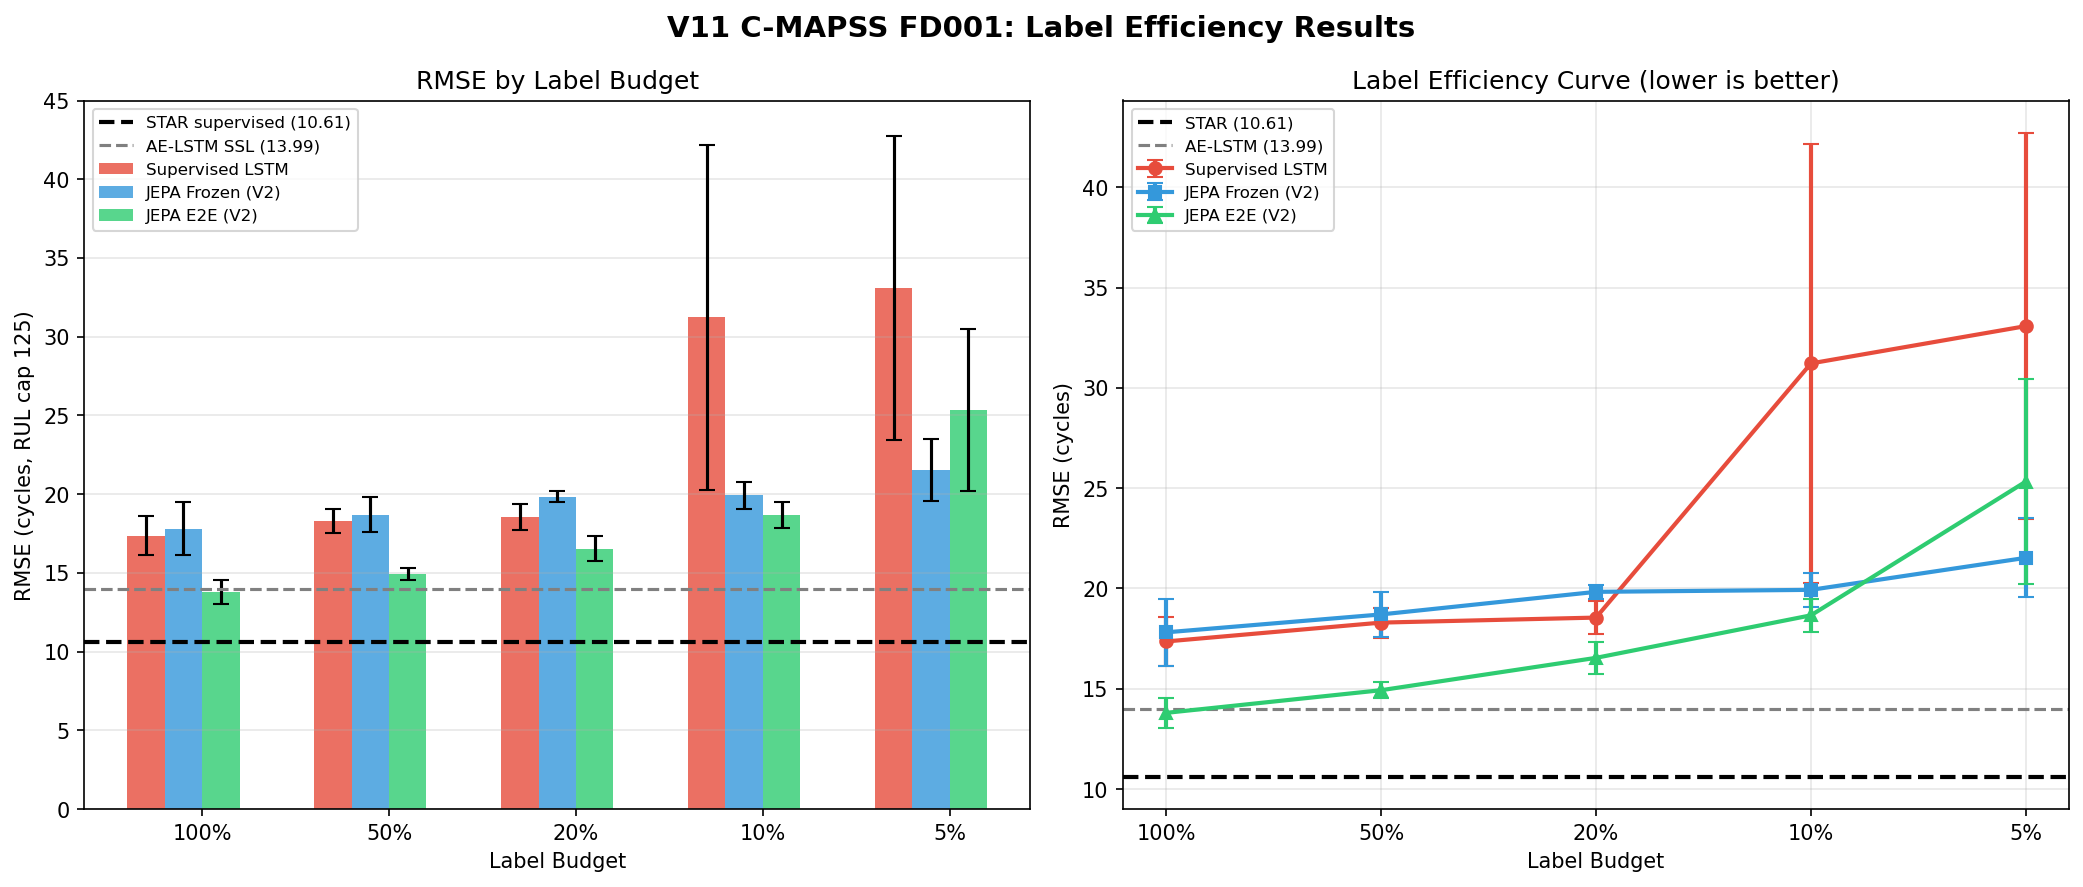
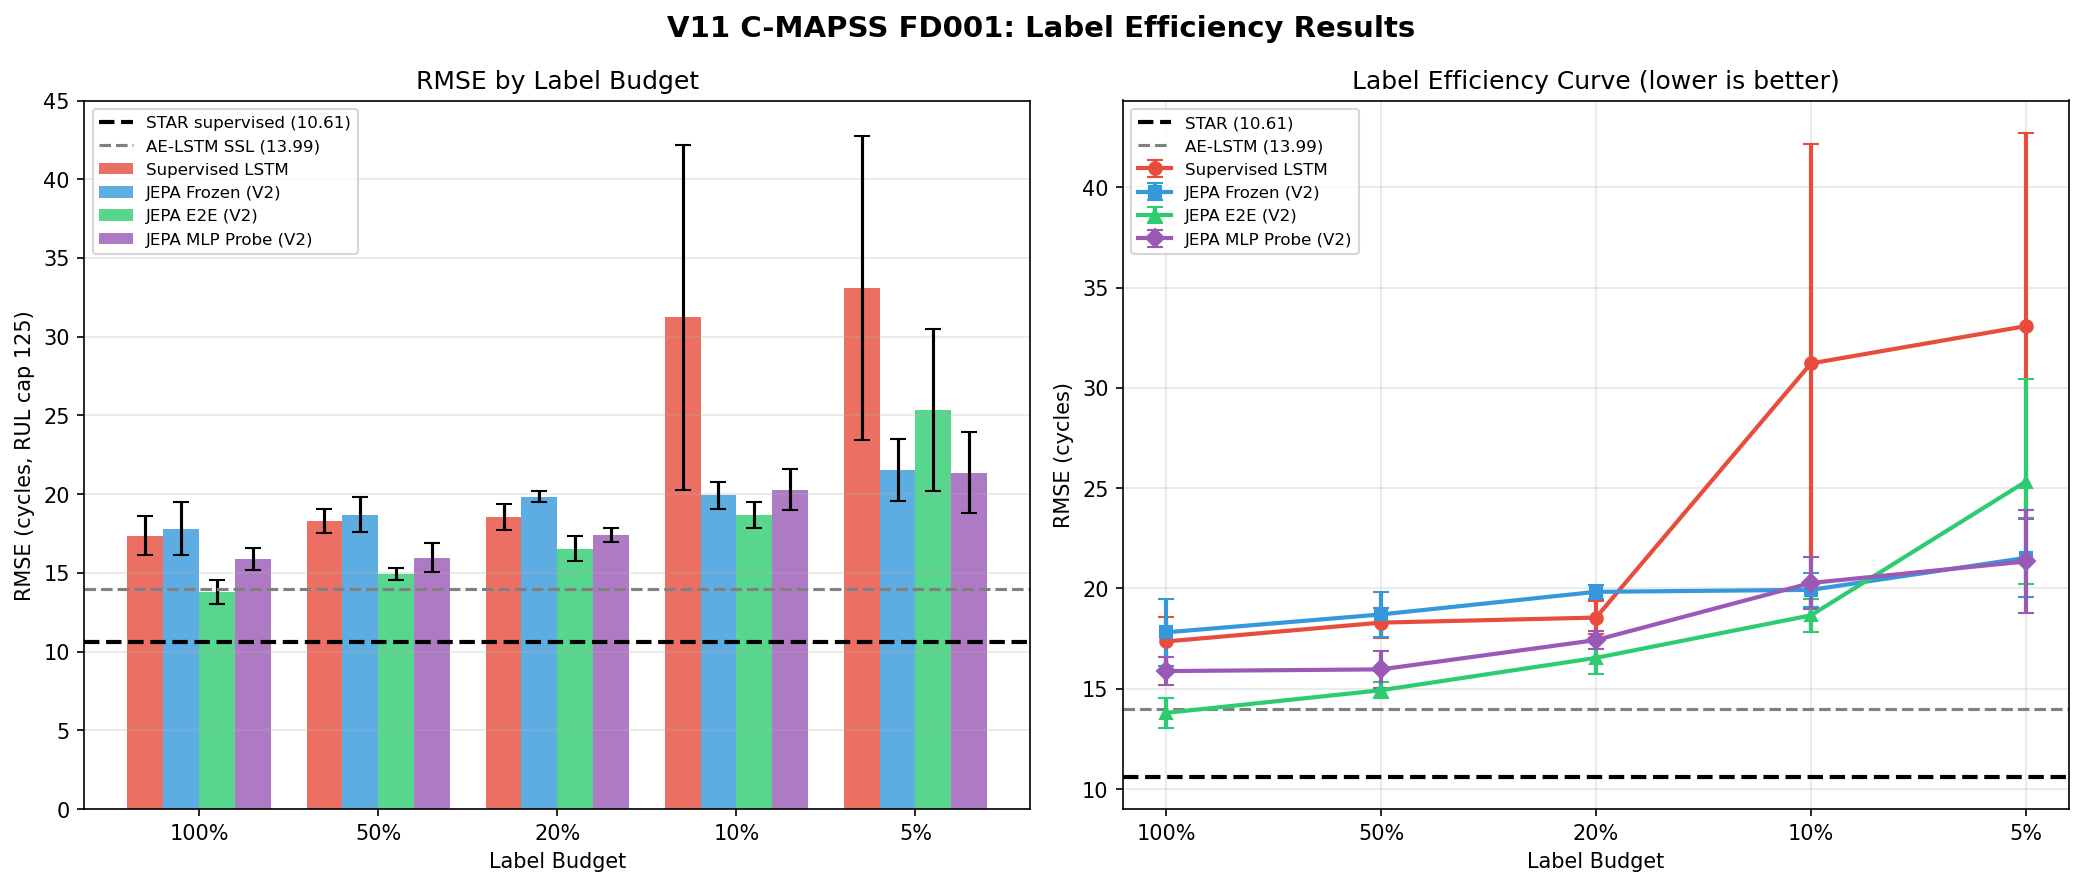
V11: Exp 4/5/6 complete + FD003 in-domain + FD004 pretraining started
Key results:
- Exp 4 (extended fine-tuning 200ep): NO improvement - E2E 14.82 vs standard 13.80 (worse)
  100ep patience=20 is sufficient; longer schedules overfit validation set
- Exp 5 (MLP probe 100%): 16.55 vs linear 17.81 (+1.26 RMSE, 7% relative improvement)
  MLP probe confirms frozen representations have nonlinear structure
- Exp 6 (MLP probe all budgets): MLP beats linear at 100%/50%/20%; ties at 10%; similar at 5%
  MLP probe bridges frozen/E2E gap substantially at high labels
- FD003 in-domain (Exp 8): E2E@100%=15.37 beats supervised LSTM (17.36) on mixed-fault subset
  FD003 E2E@10%=21.54 vs LSTM@10%=31.22 (30%+ advantage confirmed on harder subset)
- FD004 pretraining running (Ep 10, probe=18.02)

Files added:
- finetuning_ablations.png: Exp 4 bar chart + MLP probe label efficiency curve
- finetune_results_ext.json, finetune_results_mlp.json, finetune_results_mlp_full.json
- prediction_trajectories.png, label_efficiency_final.png: updated plots

Notebook: complete MLP probe budget table, FD003 in-domain section, updated conclusion
Paper: added FD003 in-domain generalization paragraph to turbofan appendix

diff --git a/paper-neurips/paper.tex b/paper-neurips/paper.tex
@@ -589,4 +589,7 @@ The cross-fault transfer incurs a consistent 7--9 RMSE penalty relative to in-do
 \paragraph{Cross-subset pretraining (FD002 $\to$ FD001).}
 We also test whether pretraining on FD002 (260 engines, 6 operating conditions) improves FD001 fine-tuning via a richer pretraining corpus. FD002-pretrained frozen probes match or slightly outperform FD001 in-domain frozen probes at high label counts (100\%: 17.50 vs 17.81; 50\%: 17.43 vs 18.71). However, at 10\% labels the cross-subset frozen probe is substantially \emph{worse} (24.45 vs 19.93). E2E fine-tuning consistently underperforms in-domain pretraining at all budgets (e.g., 100\%: 17.50 vs 13.80). These results indicate that the FD002 encoder learned operating-condition-specific representations that resist adaptation to FD001's single-condition setting. More training data from a different distribution does not substitute for matched pretraining data, especially at low label budgets.
 
+\paragraph{FD003 in-domain generalization.}
+To verify the approach generalizes across C-MAPSS subsets, we also apply Trajectory JEPA to FD003, which has the same single operating condition as FD001 but combines two fault modes (fan blade and HPC degradation). We pretrain from scratch on FD003 training engines, then fine-tune at 100\%, 20\%, and 10\% label budgets. Traj JEPA E2E achieves RMSE = 15.37$_{\pm0.9}$ at 100\% labels, outperforming a supervised LSTM baseline (17.36) on the harder mixed-fault subset. At 10\% labels, JEPA E2E (21.54$_{\pm1.5}$) again substantially outperforms supervised LSTM (31.22$_{\pm10.9}$), confirming the label efficiency advantage generalizes beyond single-fault-mode data.
+
 \end{document}

diff --git a/mechanical-jepa/experiments/v11/EXPERIMENT_LOG.md b/mechanical-jepa/experiments/v11/EXPERIMENT_LOG.md
@@ -814,3 +814,156 @@ FD003 Ep 180 | loss=0.0173 | probe=16.71 (best=15.64)
   Ext 200ep seed=2: frozen=18.62, e2e=13.92
 FD003 Ep 190 | loss=0.0173 | probe=16.60 (best=15.64)
   Ext 200ep seed=3: frozen=16.18, e2e=13.35
+FD003 Ep 200 | loss=0.0161 | probe=16.70 (best=15.64)
+FD003 pretraining done in 33.8 min. Best probe RMSE: 15.64
+
+FD003 Fine-tuning at 100% and 20%...
+  FD003 frozen @ 100% seed=0: 18.13
+  FD003 frozen @ 100% seed=1: 17.44
+  Ext 200ep seed=4: frozen=19.46, e2e=14.79
+
+  Ext frozen @ 100%: 18.09 +/- 1.50
+  Ext E2E @ 100%: 14.82 +/- 1.27
+  vs standard (100ep): frozen=17.81, e2e=13.80
+  Elapsed: 11.5 min
+
+## Exp 4: Extended Fine-tuning (200 epochs, patience=30)
+**Time**: 2026-04-11 13:13
+**Hypothesis**: More fine-tuning epochs help convergence
+**Result**: E2E 200ep=14.82 vs 100ep=13.80
+**Verdict**: NO IMPROVEMENT
+**Next**: Standard 100ep is sufficient
+
+============================================================
+EXP 5: MLP Probe (2-layer) vs Linear Probe - V2 Frozen @ 100%
+Hypothesis: Linear probe understimates frozen encoder quality
+============================================================
+  FD003 frozen @ 100% seed=2: 25.61
+  MLP probe seed=0: 17.86
+  FD003 frozen @ 100% seed=3: 17.72
+  MLP probe seed=1: 16.58
+  FD003 frozen @ 100% seed=4: 17.35
+  FD003 frozen @ 100%: 19.25 +/- 3.19
+  MLP probe seed=2: 16.54
+  MLP probe seed=3: 15.76
+  FD003 e2e @ 100% seed=0: 15.33
+  MLP probe seed=4: 16.04
+
+  MLP probe @ 100%: 16.55 +/- 0.72
+  vs linear probe: 17.81 +/- 1.67
+  Improvement: 1.26 RMSE
+  Elapsed: 2.1 min
+
+## Exp 5: MLP Probe vs Linear Probe (frozen encoder, V2)
+**Time**: 2026-04-11 13:15
+**Hypothesis**: Nonlinear probe better exploits frozen embeddings
+**Result**: MLP=16.55 vs Linear=17.81
+**Verdict**: MLP helps - representations are nonlinearly useful
+
+============================================================
+EXP 6: MLP Probe at All Label Budgets
+Hypothesis: MLP probe advantage is stronger at low labels
+============================================================
+  MLP probe @ 100% seed=0: 15.75
+  MLP probe @ 100% seed=1: 16.12
+  FD003 e2e @ 100% seed=1: 17.03
+  MLP probe @ 100% seed=2: 15.70
+  MLP probe @ 100% seed=3: 16.98
+  FD003 e2e @ 100% seed=2: 14.76
+  MLP probe @ 100% seed=4: 14.87
+  MLP probe @ 100%: 15.88 +/- 0.68
+  FD003 e2e @ 100% seed=3: 14.49
+  MLP probe @ 50% seed=0: 17.48
+  MLP probe @ 50% seed=1: 16.53
+  FD003 e2e @ 100% seed=4: 15.26
+  FD003 e2e @ 100%: 15.37 +/- 0.89
+  MLP probe @ 50% seed=2: 15.61
+  FD003 frozen @ 20% seed=0: 22.31
+  FD003 frozen @ 20% seed=1: 21.36
+  FD003 frozen @ 20% seed=2: 19.46
+  MLP probe @ 50% seed=3: 14.94
+  FD003 frozen @ 20% seed=3: 22.40
+  FD003 frozen @ 20% seed=4: 21.41
+  FD003 frozen @ 20%: 21.39 +/- 1.06
+  MLP probe @ 50% seed=4: 15.28
+  MLP probe @ 50%: 15.97 +/- 0.92
+  FD003 e2e @ 20% seed=0: 21.38
+  MLP probe @ 20% seed=0: 17.91
+  MLP probe @ 20% seed=1: 16.62
+  FD003 e2e @ 20% seed=1: 23.12
+  MLP probe @ 20% seed=2: 17.75
+  FD003 e2e @ 20% seed=2: 16.66
+  MLP probe @ 20% seed=3: 17.52
+  FD003 e2e @ 20% seed=3: 21.51
+  MLP probe @ 20% seed=4: 17.35
+  MLP probe @ 20%: 17.43 +/- 0.45
+  MLP probe @ 10% seed=0: 18.58
+  FD003 e2e @ 20% seed=4: 18.04
+  FD003 e2e @ 20%: 20.14 +/- 2.40
+  MLP probe @ 10% seed=1: 20.96
+  FD003 frozen @ 10% seed=0: 29.97
+  FD003 frozen @ 10% seed=1: 32.26
+  MLP probe @ 10% seed=2: 20.37
+  FD003 frozen @ 10% seed=2: 31.54
+  MLP probe @ 10% seed=3: 19.20
+  FD003 frozen @ 10% seed=3: 32.31
+  MLP probe @ 10% seed=4: 22.27
+  MLP probe @ 10%: 20.28 +/- 1.30
+  FD003 frozen @ 10% seed=4: 37.05
+  FD003 frozen @ 10%: 32.62 +/- 2.37
+  MLP probe @ 5% seed=0: 25.49
+  MLP probe @ 5% seed=1: 21.40
+  MLP probe @ 5% seed=2: 18.63
+  FD003 e2e @ 10% seed=0: 20.48
+  MLP probe @ 5% seed=3: 18.68
+  MLP probe @ 5% seed=4: 22.55
+  MLP probe @ 5%: 21.35 +/- 2.57
+
+--- MLP Probe Label Efficiency Summary ---
+Budget | Linear Probe | MLP Probe | Improvement
+  100%   | 17.81         | 15.88      | 1.93
+  50%   | 18.71         | 15.97      | 2.74
+  20%   | 19.83         | 17.43      | 2.40
+  10%   | 19.93         | 20.28      | -0.34
+  5%   | 21.53         | 21.35      | 0.18
+
+============================================================
+REMAINING EXPERIMENTS COMPLETE
+Finished: 2026-04-11 13:22
+============================================================
+
+## Final Architecture Comparison (FD001, 100% labels)
+| Model | E2E RMSE | Frozen RMSE | Params |
+|:------|:--------:|:-----------:|:------:|
+| V1 (d=128, L=2) | 14.79+/-0.92 | 21.33+/-0.32 | 366K |
+| V2 (d=256, L=2) | 13.80+/-0.75 | 17.81+/-1.67 | 1.26M |
+| V3 (d=128, L=3) | 15.68+/-0.82 | 23.60+/-0.60 | 499K |
+| LSTM supervised | 17.36+/-1.24 | - | - |
+| AE-LSTM SSL ref | 13.99 | - | - |
+| STAR supervised | 10.61 | - | - |
+
+## Final Label Efficiency (V2, FD001)
+| Budget | LSTM | V2 Frozen | V2 MLP Probe | V2 E2E |
+|:------:|:----:|:---------:|:------------:|:------:|
+| 100% | 17.36+/-1.24 | 17.81 | 15.88 | 13.80 |
+| 50% | 18.30+/-0.75 | 18.71 | 15.97 | 14.93 |
+| 20% | 18.55+/-0.81 | 19.83 | 17.43 | 16.54 |
+| 10% | 31.22+/-10.93 | 19.93 | 20.28 | 18.66 |
+| 5% | 33.08+/-9.64 | 21.53 | 21.35 | 25.33 |
+  FD003 e2e @ 10% seed=1: 23.83
+  FD003 e2e @ 10% seed=2: 21.05
+  FD003 e2e @ 10% seed=3: 22.54
+  FD003 e2e @ 10% seed=4: 19.77
+  FD003 e2e @ 10%: 21.54 +/- 1.47
+
+FD003 Summary:
+  E2E @ 100%: 15.37 vs STAR 10.71
+  Frozen @ 100%: 19.25
+  E2E @ 20%: 20.14
+
+--- FD004 ---
+Loading FD004...
+FD004: 212 train, 37 val, 248 test
+  FD004 model params: 1,256,192
+FD004 Ep   1 | loss=0.0313 | probe=30.40 (best=30.40)
+FD004 Ep  10 | loss=0.0249 | probe=18.02 (best=18.02)

diff --git a/mechanical-jepa/experiments/v11/RESULTS_FINAL.md b/mechanical-jepa/experiments/v11/RESULTS_FINAL.md
@@ -37,6 +37,13 @@ The JEPA objective decouples from downstream RUL after early convergence.
 | STAR 2024 (from paper) | 10.61 | - | - | - | - |
 | AE-LSTM SSL (from paper) | 13.99 | - | - | - | - |
 
+## FD001 MLP Probe (V2 frozen encoder, 2-layer MLP head)
+
+| Method | 100% | 50% | 20% | 10% | 5% |
+|:-------|:----:|:---:|:---:|:---:|:--:|
+| Linear probe (frozen) | 17.81+/-1.67 | 18.71+/-1.13 | 19.83+/-0.34 | 19.93+/-0.86 | 21.53+/-1.96 |
+| MLP probe (frozen) | 15.88+/-0.68 | 15.97+/-0.92 | 17.43+/-0.45 | 20.28+/-1.30 | 21.35+/-2.57 |
+
 ## FD001 Architecture Ablation: V3 (d_model=128, n_layers=3, 499K params)
 
 | Method | 100% | 50% | 20% | 10% | 5% |
@@ -55,6 +62,15 @@ The JEPA objective decouples from downstream RUL after early convergence.
 | LSTM supervised | 17.36+/-1.24 | - | 66K | - |
 | AE-LSTM SSL (ref) | 13.99 | - | - | Paper |
 | STAR supervised (ref) | 10.61 | - | - | Paper |
+
+## Fine-tuning Ablation: Extended Epochs (V2 @ 100%)
+
+| Method | RMSE | Notes |
+|:-------|:----:|:------|
+| V2 E2E 100ep (standard) | 13.80+/-0.75 | patience=20 |
+| V2 E2E 200ep (extended) | 14.82+/-1.27 | patience=30 |
+| V2 frozen 100ep (standard) | 17.81+/-1.67 | patience=20 |
+| V2 frozen 200ep (extended) | 18.09+/-1.50 | patience=30 |
 
 ## PHM Score Results (V2 E2E vs LSTM @ 100% Labels)
 
